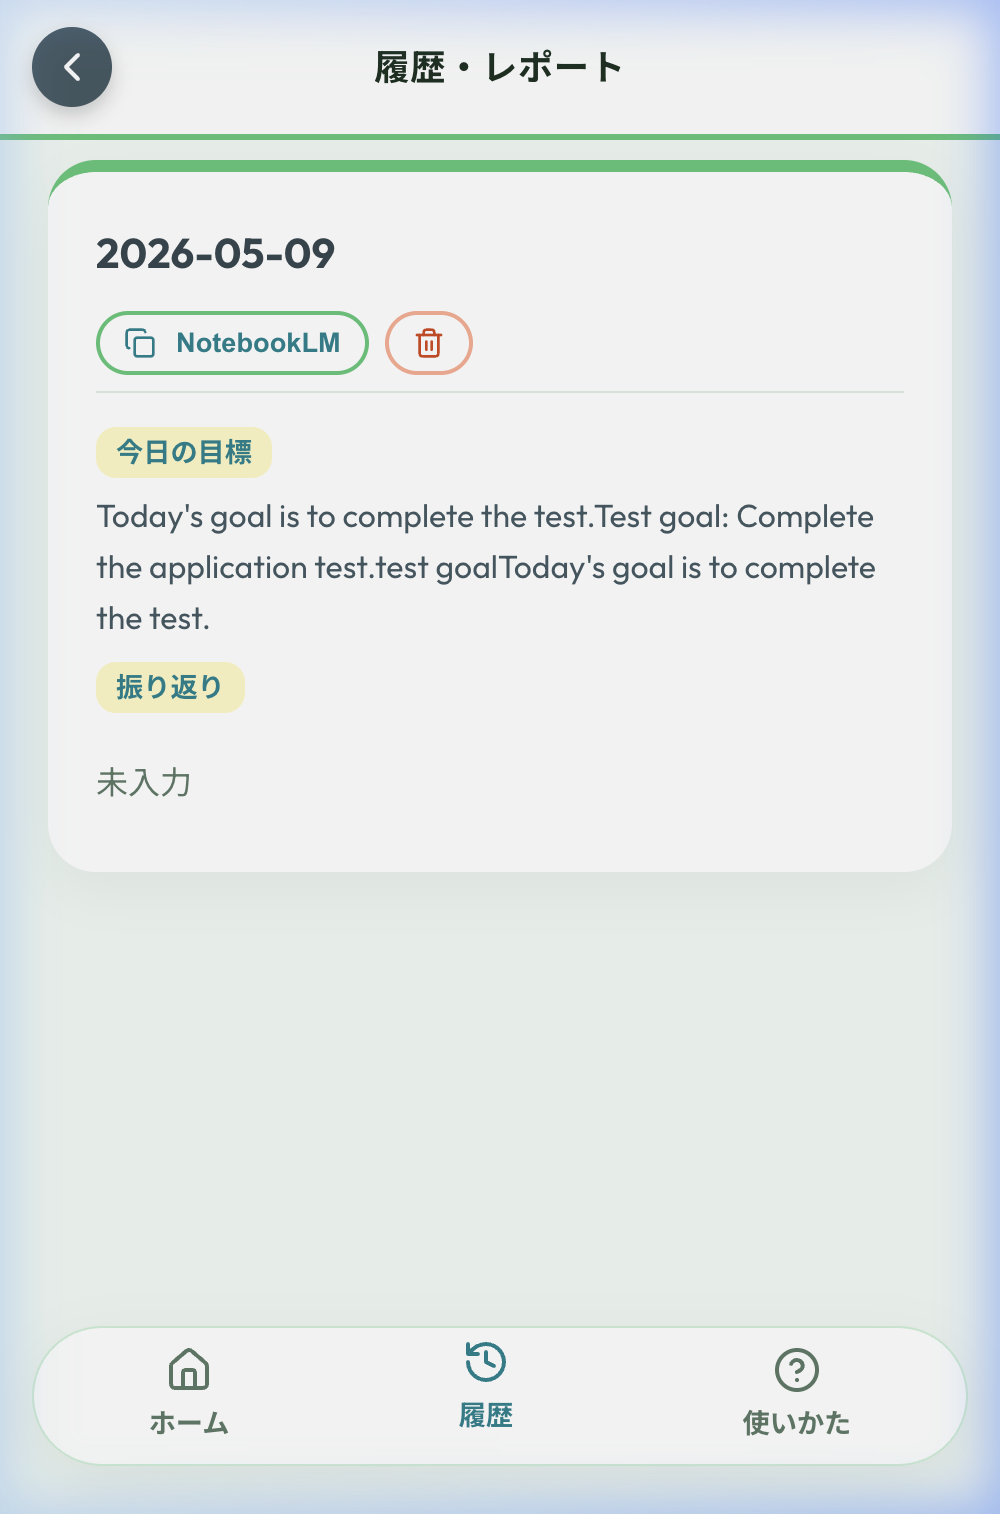
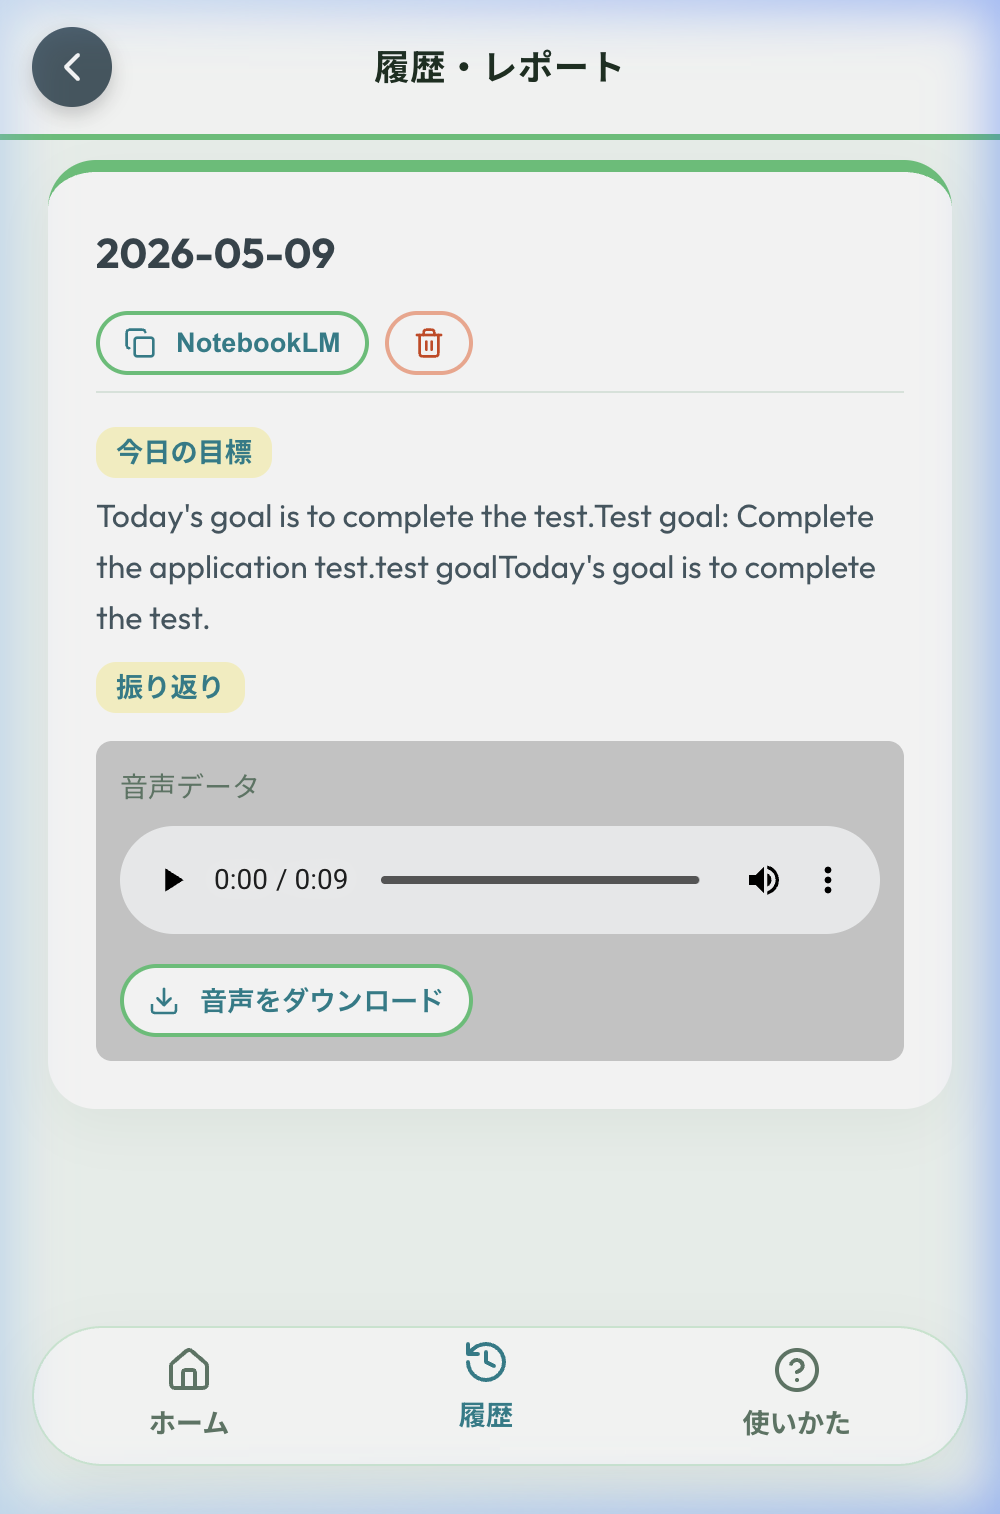
Refine manual: focus on audio recording and add NotebookLM guide

Changed region(s): [[0.093, 0.4657, 0.93, 0.714]]

diff --git a/src/pages/Manual.jsx b/src/pages/Manual.jsx
@@ -1,5 +1,5 @@
 import React from 'react';
-import { Smartphone } from 'lucide-react';
+import { Smartphone, ExternalLink } from 'lucide-react';
 
 export function Manual() {
   return (
@@ -29,7 +29,7 @@ export function Manual() {
         <div className="guide-step">
           <h4 style={{ color: '#2E7D32', marginBottom: '12px' }}>2. 夜の振り返り</h4>
           <p className="text-muted text-sm mb-3">
-            夜になったら「振り返りを記録する」から、音声を録音するかテキストを入力して保存します。
+            夜になったら「振り返りを記録する」から、音声を録音して保存します。
           </p>
           <div style={{ borderRadius: '16px', overflow: 'hidden', border: '1px solid #ddd', marginBottom: '32px', maxWidth: '400px', margin: '0 auto 32px' }}>
             <img src={`${import.meta.env.BASE_URL}guides/night_mobile.png`} alt="夜の振り返り" style={{ width: '100%', display: 'block' }} loading="lazy" />
@@ -39,10 +39,32 @@ export function Manual() {
         <div className="guide-step">
           <h4 style={{ color: '#2E7D32', marginBottom: '12px' }}>3. 履歴の確認</h4>
           <p className="text-muted text-sm mb-3">
-            これまでの記録は「履歴」タブからいつでも確認・コピーできます。
+            「履歴」タブでは、設定した目標（例：「自主的に動く」）と、録音した音声データを確認できます。
           </p>
           <div style={{ borderRadius: '16px', overflow: 'hidden', border: '1px solid #ddd', marginBottom: '32px', maxWidth: '400px', margin: '0 auto 32px' }}>
             <img src={`${import.meta.env.BASE_URL}guides/history_mobile.png`} alt="履歴の確認" style={{ width: '100%', display: 'block' }} loading="lazy" />
+          </div>
+        </div>
+
+        <div className="guide-step">
+          <h4 style={{ color: '#2E7D32', marginBottom: '12px' }}>4. NotebookLM 連携</h4>
+          <p className="text-muted text-sm mb-3">
+            履歴にある「NotebookLM」ボタンを押すと、テキストがコピーされ、音声ファイルが自動的にダウンロードされます。
+            その後、NotebookLMを開いて、これらをソースとしてアップロードすることで深い分析が可能です。
+          </p>
+          <div style={{ borderRadius: '16px', overflow: 'hidden', border: '1px solid #ddd', marginBottom: '32px', maxWidth: '400px', margin: '0 auto 32px' }}>
+            <img src={`${import.meta.env.BASE_URL}guides/notebooklm_guide.png`} alt="NotebookLM連携" style={{ width: '100%', display: 'block' }} loading="lazy" />
+          </div>
+          <div style={{ textAlign: 'center', marginBottom: '32px' }}>
+            <a 
+              href="https://notebooklm.google.com/" 
+              target="_blank" 
+              rel="noopener noreferrer" 
+              className="btn btn-outline"
+              style={{ display: 'inline-flex', alignItems: 'center', gap: '8px', padding: '12px 24px' }}
+            >
+              NotebookLMを開く <ExternalLink size={18} />
+            </a>
           </div>
         </div>
       </div>

diff --git a/copy_new_manual_assets.js b/copy_new_manual_assets.js
@@ -1,0 +1,15 @@
+import fs from 'fs';
+
+const files = [
+  { src: '/Users/shoheimuto/.gemini/antigravity/brain/5c6a7e37-6ac0-41a1-8394-7f974d1a9c98/history_page_with_audio_1778315701483.png', dest: 'public/guides/history_mobile.png' },
+  { src: '/Users/shoheimuto/.gemini/antigravity/brain/5c6a7e37-6ac0-41a1-8394-7f974d1a9c98/notebooklm_button_area_1778315702531.png', dest: 'public/guides/notebooklm_guide.png' }
+];
+
+files.forEach(file => {
+  try {
+    fs.copyFileSync(file.src, file.dest);
+    console.log(`Copied ${file.src} to ${file.dest}`);
+  } catch (err) {
+    console.error(`Failed to copy ${file.src}:`, err);
+  }
+});